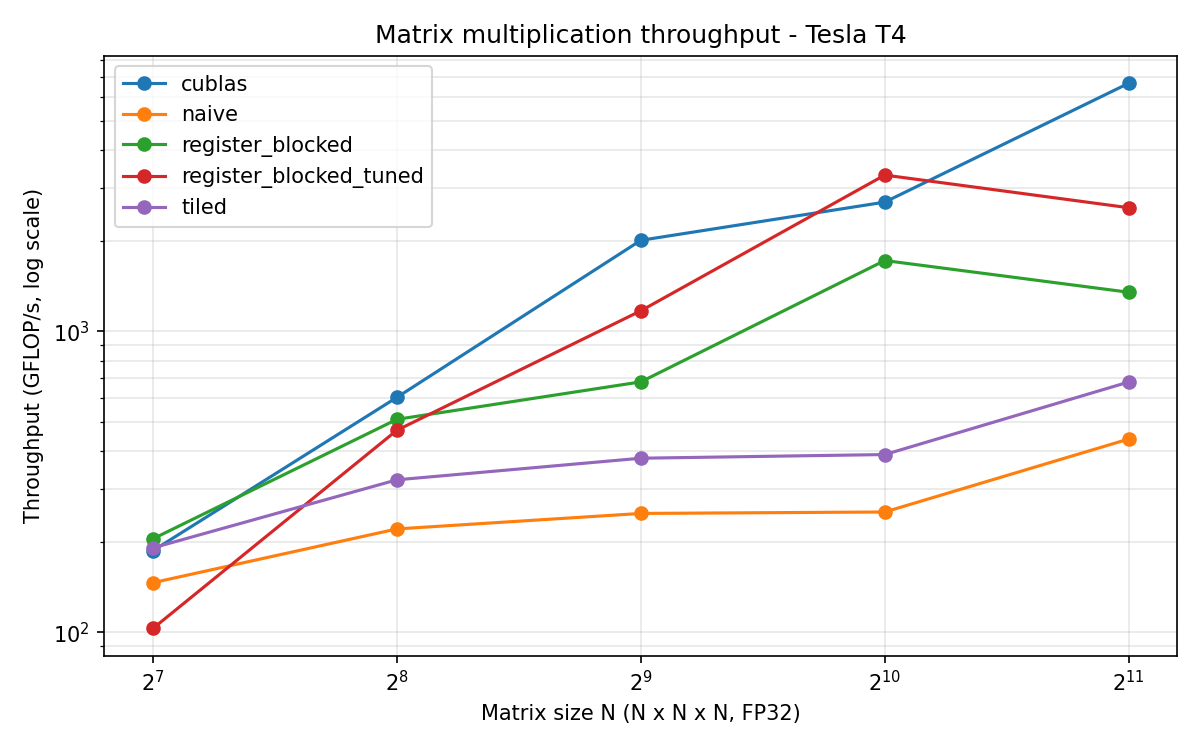
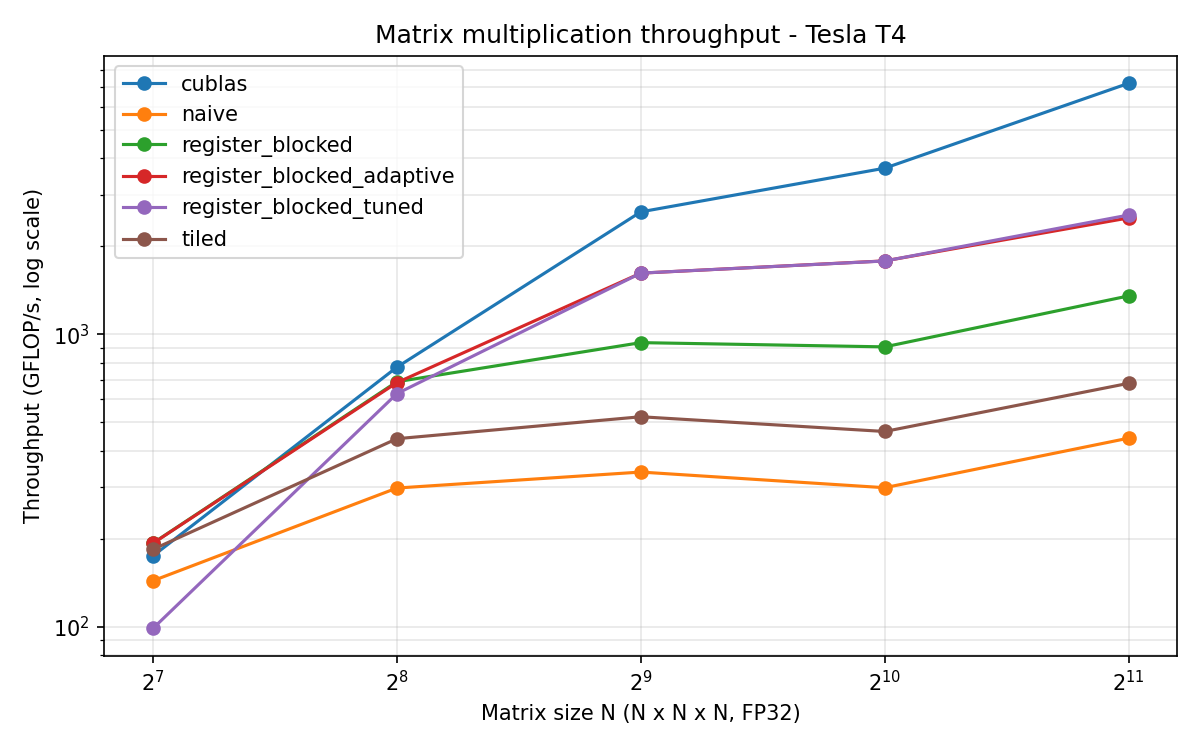
Add adaptive CUDA kernel selection and repeated benchmarks

diff --git a/README.md b/README.md
@@ -38,3 +38,60 @@ From the project directory:
 ```bash
 cmake -B build
 cmake --build build -j2
+```
+
+## Adaptive Kernel Selection
+
+MatrixForge includes `register_blocked_adaptive`, a workload-aware dispatcher
+that chooses between the original register-blocked kernel and the tuned
+register-blocked kernel.
+
+Current heuristic:
+- Square matrices with dimension at least 384 use the tuned kernel.
+- Other shapes use the original register-blocked kernel.
+
+This is an experimentally evaluated heuristic for the tested GPU, not a
+universal threshold or an automatic tuning system. Different GPUs, CUDA
+versions, and workloads may need different thresholds.
+
+## Repeated Benchmark Results
+
+Repeated measurements were collected on an NVIDIA Tesla T4 in one Colab
+session. Each matrix size was measured over five rounds, with 20 CUDA-event
+timing trials per round. The table reports the median of the five round
+medians. Timing variation can affect the results.
+
+| Matrix size | Original median (ms) | Tuned median (ms) | Observed speedup |
+|---:|---:|---:|---:|
+| 128 | 0.0143 | 0.0266 | 0.54x |
+| 256 | 0.0412 | 0.0452 | 0.91x |
+| 320 | 0.0676 | 0.0635 | 1.06x |
+| 384 | 0.1085 | 0.0735 | 1.48x |
+| 512 | 0.2274 | 0.1317 | 1.73x |
+| 640 | 0.3994 | 0.1917 | 2.08x |
+| 768 | 0.5970 | 0.3164 | 1.89x |
+| 1024 | 1.4930 | 0.7748 | 1.93x |
+| 1280 | 3.1453 | 1.6176 | 1.94x |
+| 1536 | 5.4992 | 2.8844 | 1.91x |
+| 2048 | 12.9275 | 7.2178 | 1.79x |
+
+The largest observed speedup in this repeated comparison was approximately
+2.08x at 640 × 640. The tuned kernel was slower at 128 × 128 and 256 × 256,
+illustrating why one kernel configuration is not optimal for every workload.
+
+Separate held-out tests at 448, 896, and 1792 square dimensions showed the
+adaptive dispatcher tracking the tuned kernel's performance closely. These
+measurements are GPU- and session-specific; they do not establish that the
+custom kernel universally outperforms cuBLAS.
+
+Detailed repeated measurements are available in
+`results/kernel_comparison_repeated.csv`. The standard benchmark CSV records
+kernel timings, GFLOP/s, correctness error, and comparison with cuBLAS.
+
+## Correctness and Measurement Notes
+
+- The standard benchmark checks output correctness against a reference.
+- CUDA-event timings are used for GPU kernel measurements.
+- Performance depends on matrix dimensions, GPU model, compiler, and runtime.
+- cuBLAS is the performance reference; results should be interpreted from
+  repeated measurements rather than a single timing.
